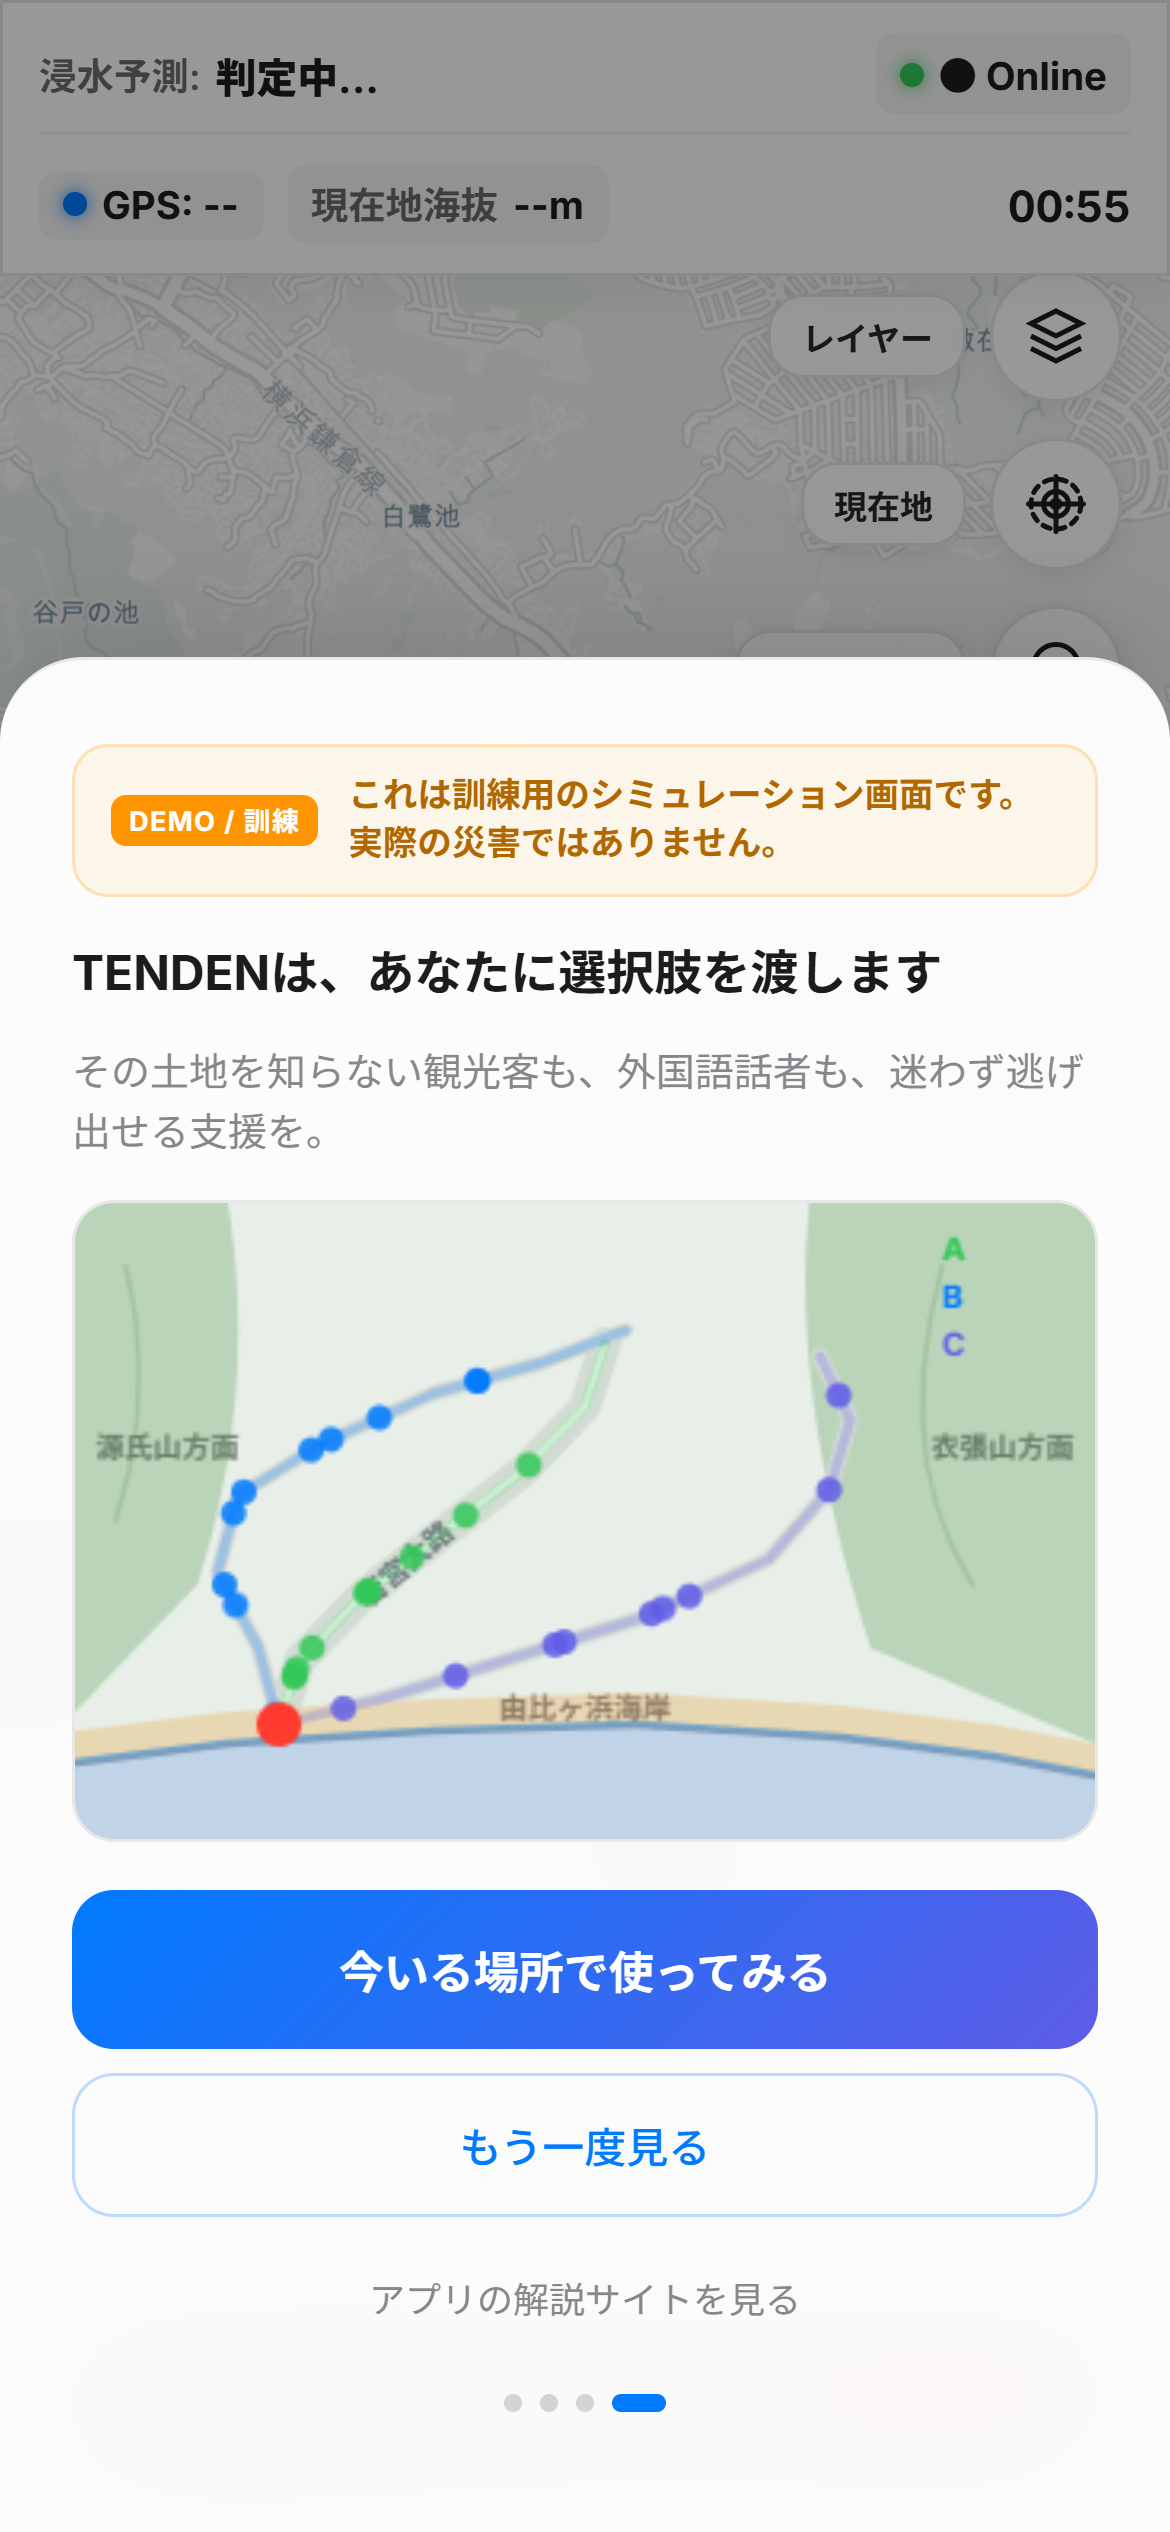
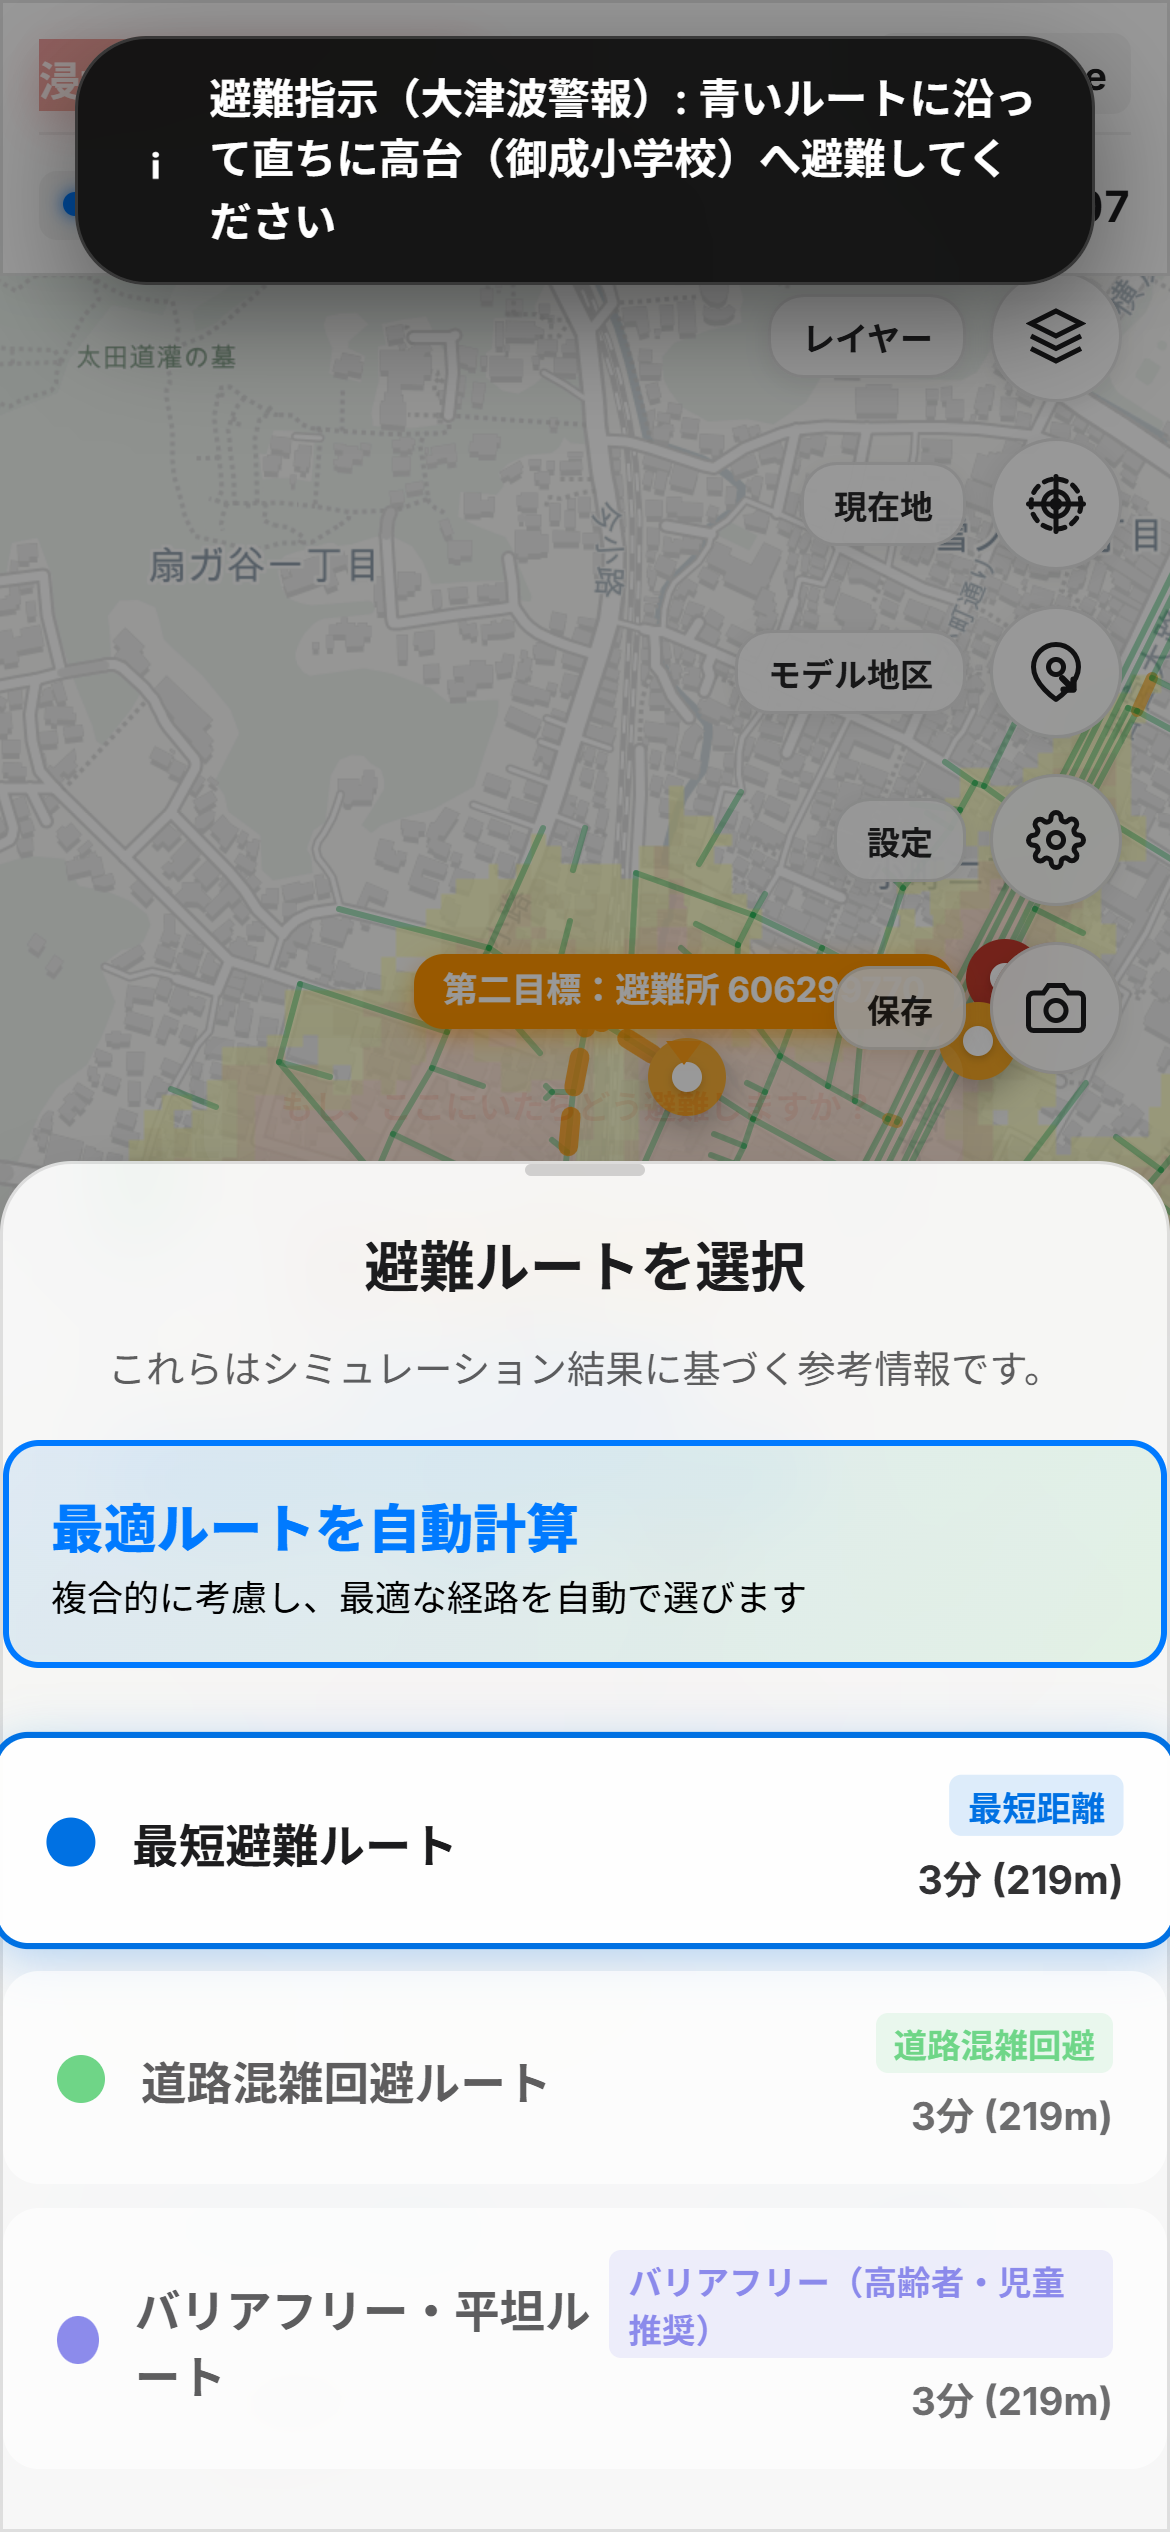
feat: redefine dynamic safe boundaries to 80m-120m completely safe buffer zone and enhance mobile tests

diff --git a/tenden-app/test_mobile.js b/tenden-app/test_mobile.js
@@ -91,19 +91,43 @@ if (!executablePath) {
 
     try {
         console.log("Navigating to http://127.0.0.1:8082 ...");
-        await page.goto('http://127.0.0.1:8082', { waitUntil: 'networkidle2' });
+        await page.goto('http://127.0.0.1:8082', { waitUntil: 'domcontentloaded', timeout: 60000 });
 
         // Skip onboarding demo if active
         await page.evaluate(() => {
-            if (typeof closeDemo === 'function') closeDemo();
+            const skipBtn = document.getElementById('btn-demo-skip-0') || 
+                            document.getElementById('btn-demo-skip-1') || 
+                            document.getElementById('btn-demo-skip-2');
+            if (skipBtn) {
+                skipBtn.click();
+            }
+            // Ensure demo modal and overlays are hidden
+            const demoOverlay = document.getElementById('demo-overlay') || document.querySelector('.demo-overlay');
+            if (demoOverlay) demoOverlay.style.display = 'none';
+            const demoContainer = document.getElementById('demo-container') || document.querySelector('.demo-container') || document.getElementById('intro-modal');
+            if (demoContainer) demoContainer.style.display = 'none';
         });
+
+        // Wait a bit for geolocation to fail in headless mode and show error overlay
+        await new Promise(resolve => setTimeout(resolve, 2000));
+        
+        // If the geolocation error overlay is present, dismiss it by clicking #btn-error-ok
+        await page.evaluate(() => {
+            const btn = document.getElementById('btn-error-ok');
+            if (btn) {
+                console.log("Geolocation error overlay active, clicking #btn-error-ok to close...");
+                btn.click();
+            }
+        });
+
+        await new Promise(resolve => setTimeout(resolve, 1500));
 
         // Save initial screenshot
         await page.screenshot({ path: path.join(__dirname, 'screenshot_1_loaded.png') });
         console.log("Screenshot 1 saved: Loaded");
 
         // Click the 'テスト発令' button
-        await page.waitForSelector('#btn-test-alert', { timeout: 5000 });
+        await page.waitForSelector('#btn-test-alert', { timeout: 15000 });
         console.log("Clicking Test Alert button...");
         await page.click('#btn-test-alert');
 
@@ -122,8 +146,11 @@ if (!executablePath) {
 
         // Click '#btn-set-pin' to drop pin in crosshair mode
         console.log("Clicking '#btn-set-pin' to lock pin location in crosshair mode...");
-        await page.waitForSelector('#btn-set-pin', { timeout: 5000 });
-        await page.click('#btn-set-pin');
+        await page.waitForSelector('#btn-set-pin', { timeout: 10000 });
+        await page.evaluate(() => {
+            const btn = document.getElementById('btn-set-pin');
+            if (btn) btn.click();
+        });
 
         await new Promise(resolve => setTimeout(resolve, 3000));
         await page.screenshot({ path: path.join(__dirname, 'screenshot_3_route_options.png') });

diff --git a/tenden-app/app.js b/tenden-app/app.js
@@ -3272,7 +3272,8 @@ document.addEventListener('DOMContentLoaded', () => {
  const GRID = 0.0008; // Deduplication grid cell ~80m
  const edgeMap = new Map(); // gridKey → {lat, lng, id, name}
 
- const R_PROX = 2; // 2 pixels ≈ 20m proximity limit to inundation zone (close to boundary)
+ const R_SAFE = 8;   // 8 pixels ≈ 80m safety margin buffer from inundation zone
+ const R_OUTER = 12; // 12 pixels ≈ 120m proximity search limit to inundation zone
 
  // Gather all tile loading tasks
  const tileTasks = [];
@@ -3300,9 +3301,9 @@ document.addEventListener('DOMContentLoaded', () => {
  const tx = tile.tx;
  const ty = tile.ty;
 
- // Scan for boundary: safe pixel (alpha === 0) close to inundation (R_PROX)
- for (let py = R_PROX; py < 256 - R_PROX; py += STEP) {
- for (let px = R_PROX; px < 256 - R_PROX; px += STEP) {
+ // Scan for boundary: safe pixel (alpha === 0) close to inundation (R_OUTER)
+ for (let py = R_OUTER; py < 256 - R_OUTER; py += STEP) {
+ for (let px = R_OUTER; px < 256 - R_OUTER; px += STEP) {
  const thisAlpha = pixels[(py * 256 + px) * 4 + 3];
  if (thisAlpha > 0) continue; // Must be strictly outside (safe)
 
@@ -3314,11 +3315,11 @@ document.addEventListener('DOMContentLoaded', () => {
  // Skip if the point is near the coastline or rivers
  if (isNearCoastOrWater(lat, lng)) continue;
 
- // [CRITICAL] 1-Pixel Safety Margin Check (~10m buffer from inundation pixels)
+  // [CRITICAL] R_SAFE Safety Margin Check (8 pixels ≈ 80m buffer from inundation pixels)
  // This mathematically guarantees that no green plot point lies inside or overlaps with the pink/red hazard zone.
  let tooCloseToInundation = false;
- for (let dy = -1; dy <= 1; dy++) {
- for (let dx = -1; dx <= 1; dx++) {
+  for (let dy = -R_SAFE; dy <= R_SAFE; dy++) {
+   for (let dx = -R_SAFE; dx <= R_SAFE; dx++) {
  if (pixels[((py + dy) * 256 + (px + dx)) * 4 + 3] > 0) {
  tooCloseToInundation = true;
  break;
@@ -3369,14 +3370,14 @@ document.addEventListener('DOMContentLoaded', () => {
  continue;
  }
 
- // Verify proximity: at least one pixel in outer shell (2 to 3 pixels away) must be inundated (alpha > 0)
+  // Verify proximity: at least one pixel in outer shell (R_SAFE + 1 to R_OUTER pixels away) must be inundated (alpha > 0)
  let hasInsideNeighbor = false;
- const R_OUTER = 3;
- for (let dy = -R_OUTER; dy <= R_OUTER; dy++) {
- for (let dx = -R_OUTER; dx <= R_OUTER; dx++) {
+  // (Reusing global const R_OUTER)
+  for (let dy = -R_OUTER; dy <= R_OUTER; dy++) {
+   for (let dx = -R_OUTER; dx <= R_OUTER; dx++) {
  // Skip the inner 3x3 box we already verified is completely safe
- if (Math.abs(dy) <= 1 && Math.abs(dx) <= 1) continue;
- 
+    // Skip the inner R_SAFE box we already verified is completely safe
+    if (Math.abs(dy) <= R_SAFE && Math.abs(dx) <= R_SAFE) continue;
  const ny = py + dy;
  const nx = px + dx;
  if (pixels[(ny * 256 + nx) * 4 + 3] > 0) {
